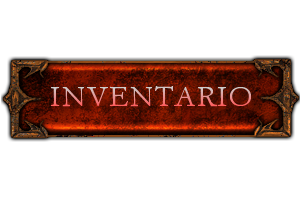
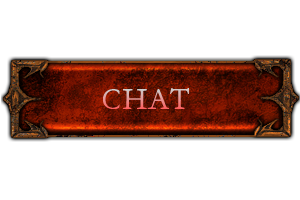
* Se le coloco la foto del botón al chat * Se corrigió que al salir del chat publico, se borran los mensajes

Changed region(s): [[0.15, 0.42, 0.87, 0.57]]

diff --git a/src/main/java/interfaz/MenuClientesChat.java b/src/main/java/interfaz/MenuClientesChat.java
@@ -170,9 +170,7 @@ public class MenuClientesChat extends JFrame {
 	 * Abre una ventana publica de chat
 	 */
 	private void abrirVentanaChatPrivada() {
-		if (this.chatPublico == null)
-			this.chatPublico = new MenuVentanaChat("Sala", this, false);
-		this.chatPublico.setVisible(true);
+		this.chatPublico = new MenuVentanaChat("Sala", this, false);
 	}
 
 	/*
@@ -232,7 +230,8 @@ public class MenuClientesChat extends JFrame {
 			MenuVentanaChat uiChat = chatPrivados.get(usuario);
 			chatPrivados.remove(usuario);
 			uiChat.dispose();
-		}
+		} else if (usuario.equals("Sala"))
+			chatPublico.dispose();
 	}
 
 	/*

diff --git a/src/main/java/interfaz/MenuVentanaChat.java b/src/main/java/interfaz/MenuVentanaChat.java
@@ -103,7 +103,7 @@ public class MenuVentanaChat extends JDialog {
 				"Confirmación", JOptionPane.YES_NO_OPTION);
 		if (opcion == JOptionPane.YES_OPTION)
 		{
-			this.uiClients.eliminarVentanChat(this.username);			
+			this.uiClients.eliminarVentanChat(this.username);
 		}
 	}
 
